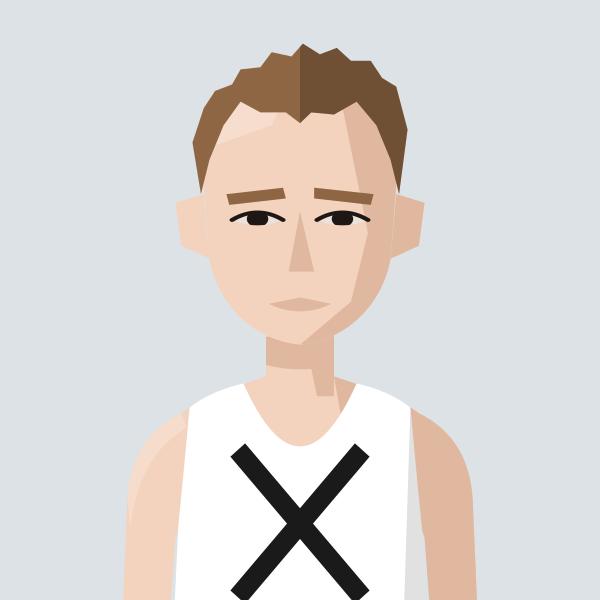
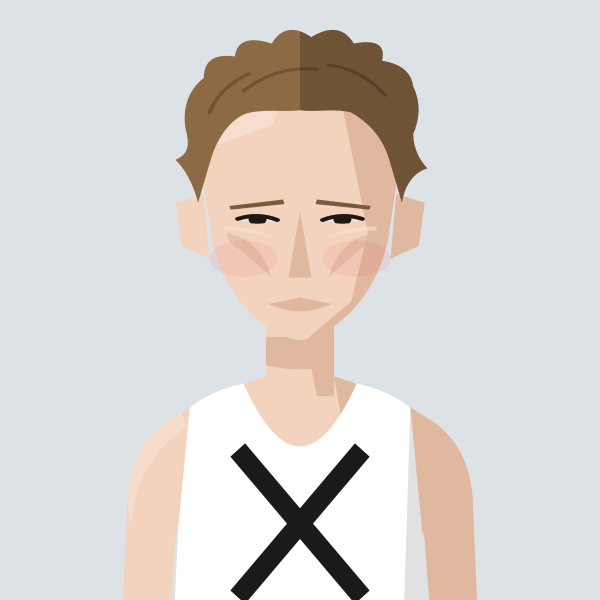
Portrait: Ethan McColgan redrawn (wavy volume, small deep-set eyes, cheekbones, long nose)
Claude-Session: https://claude.ai/code/session_01MgmDWhFqnSSnP4iBLKXUZC

diff --git a/files/index.html b/files/index.html
@@ -787,7 +787,7 @@ const portraitFile=(name,club)=>{const k=normalizeNameForCompare(name||'').repla
 const portraitClubOf=(name,clubs)=>{for(const c of clubs||[]){if(c&&portraitFile(name,c))return c;}return null;}; /* first of these clubs we have a portrait for */
 // Athlete header figure: superstar portrait if we have one, else a grey runner in the club vest, else the plain vest icon
 // Changes whenever any portrait changes (set by tools/build_og.py), so browsers fetch fresh images instead of old cached ones
-const PORTRAIT_V='8cf6c837';const PORTRAIT_WOMEN='abbey-brooke,abbie-bulbulian,adele-prince,aimee-hargreaves,aisling-ahern,alex-brown,alex-gandee,alex-marginean,alex-miller,alexa-parker,alexandra-barbour,alice-braham,alice-bridger-morales,alice-crane,alice-martin,alice-reed,alice-smith,alison-purnell,alison-thomson,amelia-pettitt,amy-clements,andrea-barber,anika-schwarze-chintapatla,anna-garnier,anna-garnier-hw,anna-sharp,annabel-hobday,annabelle-hadlow,anne-hegvold,annmarie-seymour,ava-mcandie,becky-briggs,bethan-goddard,bethanie-murray,bethany-brown,betsy-griffiths,billie-mcclosky,camilla-barden,caoimhe-nic-fhogartaigh,carolyne-baxter,catherine-bryson,catherine-eastham,catherine-kandie,cathy-ansell,charlotte-griffiths,chloe-beckett,chloe-tighe,chrissie-wellington,claire-grima,clara-pettit,clare-elms,clare-pauzers,dillan-quinn,dorchie-cockerell,eilidh-hide,elinor-skinner,eliza-grant,elizabeth-apsley,elizabeth-stavreski,ella-fennelly,ella-king-powrie,ella-may-hards,ella-newton,ellen-weir,ellie-brown,ellie-freeden,eloise-bull,emilie-arnoux,emily-barrett,emily-bradley,emily-lowery,emily-robbins,emma-gordon,emma-howsham,emma-lord,emma-rowland,estle-viljoen,evie-warren,felicity-cole,felicity-harrison,felicity-hayward,fi-maddocks,fiona-de-mauny,florence-wiggins,gabby-collison,gabriel-reynolds,gemma-newport,genevieve-blanch,georgia-curry,georgie-bruinvels,georgie-fenn,georgie-furze,georgie-grgec,gina-galbraith,grace-leyland,grace-richardson,hannah-edwards,hannah-english,heather-statham,heather-statham-cc,helena-corbin,helena-keenan,holly-nixon,holly-pan,imogen-mackie,imogen-wolsey,iona-cousland,isabel-bradley,isabel-brinsden,isabelle-pickett,isobel-hodder,jennifer-nandi,jennifer-smith,jess-reed,jess-saunders,jess-winfield,jessica-davies,jessica-lowe,jodie-favell,josephine-rhodes,julia-bleasdale,julia-wedmore,juliet-hodder,jurgita-levertaviciute,justine-lynch,karen-fenner,karen-xiang,karina-box,kate-axford,kate-williams,kathy-sharpe,katie-ellen-french,katie-good,katie-snowden,katy-hedgethorne,kitty-shepherd-cross,kristina-popadich,lara-bromilow,lara-mangan,laura-goodson,laura-miles,lauren-major,lea-adamson,lily-newton,lisa-bailey,lisa-thomas,lisa-thomas-hw,lizzie-goldie-scot,louise-cooper,lucy-jones,lucy-macalister,lucy-peters,lydia-blackmore,lydia-gallyer-barnett,maddie-mastrolonardo,maddy-whitman,maeve-kenny,margaret-coogan,martina-conner,mary-james,mary-setyabule,matilde-lomba,megan-gildea,mel-wilkins,mhairi-hall,mimi-corden-lloyd,molly-oconnor,molly-smith,monika-gajek,naomi-lenane,natalie-beadle,natalie-seymour,natasha-lodge,niamh-thompson,nicky-hayes,nicola-cartlidge,nicola-douglas,nikki-sturzaker,olivia-papaioannou,olivia-stillman,orna-mcginley,pamela-mchutchon,patricia-walker,patrizia-gnoato,penny-oliver,rachel-brown,rebecca-barrow,rebekah-edgar,ruby-carter,ruby-whyte-wilding,ruby-woolfe,sally-urquhart,sam-whiting,samantha-munday,sarah-astin,sarah-dewhirst,sarah-grover,sarah-hanley,sarah-holt,sarah-murphy,sarah-palmer,sarah-palmer-ran,sarah-riceman,sarah-young,saron-haileselase,serena-carter,sophie-cowper,sophie-harris,sophie-hicks,sophie-tooley,stacey-ward,steph-hewitt,steph-mccall,steph-mccall-cc,steph-mccall-slh,steph-mitchell,suzanne-swaine,suze-spalding,suzie-harvey,suzy-whatmough,teresa-murphy,tilly-heaton,tilly-heaton-bel,tish-jones,vic-cartwright,vicky-clarke,victoria-barthelmess,victoria-buck,vikki-filsell,zoe-doyle,zoe-macdonald,zuzana-nemeckova';const PORTRAIT_MEN='aaron-wilson,abdulla-elsadig,adam-leane,adrian-major,adrien-royer,alan-black,alan-mead,alex-brecker,alex-bruce-littlewood,alex-gutteridge,alex-harris,alex-howard,alex-janiaud,alex-lee,alex-lennon,alex-mills,alex-milne,alex-morales,alex-robinson,alex-yee,alexander-marks,amittai-ben-israel,andrew-cumine,andrew-green,andrew-penney,andrew-perfect,andrew-simms,andrew-warburton,andrius-jaksevicius,andy-coley-maud,andy-coley-maud-cc,andy-fyfe,andy-north,andy-paton,andy-weir,angus-butler,angus-lamb,anisse-ismaili,arlo-ludewick,arne-dumez,arthur-peel,ashley-goncalves,barnaby-day,barry-collins,barry-sawyer,ben-clarke,ben-coughlan,ben-harding,ben-hurley,ben-ireland,ben-millar,ben-paviour,ben-pearce,ben-racle,ben-revill,ben-reynolds,ben-scott,ben-toomer,benedict-whitby,benjamin-hilson,bernie-ford,bill-kerr,bill-weller,bill-weller-wal,bob-harrison,bob-holt,bob-lunnon,bob-rayman,bob-smith,bradley-courtney-pinn,brandon-dewar,brian-gorman,brian-wilder,caleb-hathaway,callum-stewart,cameron-dockerill,cameron-reilly,carl-delaney,charles-herrington,charlie-dabbs,charlie-dickinson,charlie-eastaugh,charlie-manning,charlie-pickett,charlie-rogers,charlie-sandison,charlie-walker,charlie-wyllie,che-compton,chris-busaileh,chris-busaileh-hhh,chris-greenwood,chris-keavey,chris-moss,chris-steer,chris-threadgold,chris-warren,christian-lee,christopher-parker,clive-gilby,clive-shippen,colin-high,colin-pearson,conall-mcnally,conall-whelan,craig-ruddy,dame-dibaba,dan-cliffe,dan-pettitt,daniel-shaw,daniel-wolff,dave-beard,dave-beaver,dave-glassborow,dave-holt,dave-taylor,david-anderson,david-bowers,david-grima,david-north,david-ogden,david-symons,david-walsh,david-williams,deron-fagan,dick-piotrowski,dimos-evangelidis,dominic-kiralyfi,don-anderson,don-faircloth,don-maclean,doug-maughan,duncan-rimmer,dylan-evans,dylan-mitchard,ed-brewer,ed-catmur,ed-gibson,ed-mallett,eddie-herridge,eddie-jodrell,eddie-rolls,edward-chuck,eoin-brady,eoin-molloy,ethan-mccolgan,falilou-kebe,findlay-dyer,finn-johnson,fintan-pearce,frank-tickner,frank-ward,fred-paget,fred-slemeck,freddie-hessian,garret-lee,gary-ribbons,gary-ribbons-ee,gary-staines,gavin-eccles,geoff-biscoe,geoff-jerwood,geoff-north,george-cotton,george-gathercole,george-jackson,george-loxton,george-mallett,george-ogden,gerry-adams,gerry-north,glen-keegan,gordon-pearce,graham-macky,harrison-hayman,harry-guttridge,hector-revill,henry-hart,henry-silverstein,hugo-hewitt,huw-lobb,ian-acreman,ian-crowe-wright,ian-ellwood,ian-harkness,indy-barnes,isaac-lutaya,isaac-parker,jack-brotchie,jack-dickson,jack-dormer,jack-hampshire,jack-harrison,jack-hobden,jack-kavanagh,jack-millar,jack-ramm,jack-woods,jacob-brockmann,jake-simmonds,james-bartram,james-blackwood,james-bowler,james-estall,james-ewing,james-fox,james-hancock,james-harvey,james-hoad,james-kelly,james-mcmullan,james-murray,james-nutt,james-preston,james-roberts,james-stockings,james-ward,james-wootton,jamie-crowe,jamie-parkinson,jared-martin,jean-paul-wright,jeff-cunningham,jeremy-dempsey,jermaine-mays,jerry-watson,jim-allchin,jim-rimmer,joe-english,joe-hartley,john-baker,john-bicourt,john-bromley,john-davies,john-dear,john-foss,john-foxall,john-gilbert,john-gladwin,john-hutchins,john-kendall,john-kimaiyo,john-lee,john-lethbridge,john-mather,john-moore,john-roberts,john-sanderson,john-stow,john-sullivan,john-thresher,jon-hobbs,jon-pepper,jon-pepper-slh,jon-phillips,jon-solly,jonathan-cocker,jonathan-collier,jonathan-cornish,jonathan-ratcliffe,jonathan-tipper,jonathon-blackledge,jonny-neville,jonny-scott,jordan-weaver,josh-mitchell,josh-snow,josh-trigwell,jules-gevers,junior-galley,justin-chaston,justin-reid,kassa-tadesse,keith-newton,kevin-nash,kevin-quinn,kevin-sturman,kieran-barnes,kieran-white,knut-hegvold,knut-hegvold-bel,larry-ryan,lawrence-avery,lee-lintern,lewis-lloyd,liam-burthem,lionel-mann,lloyd-kempson,luke-caldwell,mack-downie,malachi-byansi,marcello-bizio,marcelo-fortes,marco-mazzotta,mark-anderson,mark-miles,mark-sinclair,mark-tennyson,mark-waller,martin-dent,martin-lake,martin-lewington,martin-shore,mathew-speed,matt-chaston,matt-jones,matt-wood,matthew-edgar,matthew-houchell,matthew-thomas,matthew-varley,max-bloor,max-heyden,max-milarvie,max-nicholls,michael-baker,michael-mccarthy,mick-woods,mike-beevor,mike-boyle,mike-cummings,mike-farmery,mike-fuller,mike-hayes,mike-kortenray,mike-nouch,mohammed-ismail,monty-hudson,morgan-roberts,nathan-visick,neil-chisholm,neil-phillips,neil-speaight,neil-wilson,nic-lukies,nick-acfield,nick-altmann,nick-bester,nick-bester-hhh,nick-buckle,nick-bundle,nick-goolab,nick-lightfoot,nick-morris,nick-torry,noah-fernandez,norman-stairs,oli-carrington,oliver-carrington,oliver-fox,oliver-reynolds,oliver-young,ollie-foote,ollie-garrod,olly-buck,owen-hind,paddy-roddy,pancho-panchev,paskar-owor,pat-newell,patrick-mcdougall,paul-calver,paul-cheetham,paul-freary,paul-magner,paul-pollock,paul-sanderson,paul-sanderson-wok,pete-carton,pete-gardner,peter-clarke,peter-giles,peter-giles-thh,peter-lighting,phil-carstairs,phil-sanders,phil-sesemann,phil-swinburn,phil-wicks,phil-woodford-smith,raj-paranandi,ralph-street,ranjit-bhatia,ray-foley,reece-edwards,rhys-boorman,rian-mccawley,richard-ashe,richard-giles,richard-henderson,richard-langley,richard-mcdowell,richard-ollington,richard-partridge,richard-sun,richard-ward,rob-armstrong,rob-kelly,rob-tuer,robert-elphick,robert-laing,robert-norville,robert-peacock,robert-sesemann,robin-boon,robin-hudson,roger-alsop,roger-alsop-bel,ron-clark,ron-linstead,ronan-tanguy,rory-mcmahon,rory-orsborn,ross-braden,ross-christie,rowan-board,rowan-crichton,russell-dessaix-chin,ryan-hickey,ryan-mccallister,sam-bramwell,sam-charlton,sam-gebreselassie,sam-haughian,sam-peters,sam-sommerville,sam-tyas,samuel-dames,samuel-wilcock,sean-cordon,sebastian-anthony,simon-baines,simon-coombes,simon-coppard,simon-holmes,simon-rayner,simon-rayner-hw,simon-wade,simon-wade-hhh,simon-waterhouse,simon-williams,simon-wurr,sonny-nicoll,spencer-barden,stephen-mcleod,stephen-sharp,steve-gardner,steve-jones,steve-smythe,steve-smythe-hhh,stuart-beaney,stuart-major,stuart-major-thh,stuart-mccallum,stuart-paton,terry-booth,thomas-dugre,thomas-gandee,thomas-gardner,thomas-renshaw,tim-alexander,tim-eglen,tim-lawrence,tim-watson,toby-cooke,toby-fletcher,tom-austin,tom-cheetham,tom-conlon,tom-davies,tom-gifford,tom-higgs,tom-jervis,tom-lole,tom-south,tom-thornley,tommy-taylor,tony-binda,tony-fairclough,tony-harran,trevor-hart,valdis-pauzers,valentin-rigori,vic-maughan,wayne-oxborough,will-cockerell,will-lewis,will-marshall,will-scott,will-stockley,william-gardner,yacin-yusuf,zach-nolan';
+const PORTRAIT_V='f6927289';const PORTRAIT_WOMEN='abbey-brooke,abbie-bulbulian,adele-prince,aimee-hargreaves,aisling-ahern,alex-brown,alex-gandee,alex-marginean,alex-miller,alexa-parker,alexandra-barbour,alice-braham,alice-bridger-morales,alice-crane,alice-martin,alice-reed,alice-smith,alison-purnell,alison-thomson,amelia-pettitt,amy-clements,andrea-barber,anika-schwarze-chintapatla,anna-garnier,anna-garnier-hw,anna-sharp,annabel-hobday,annabelle-hadlow,anne-hegvold,annmarie-seymour,ava-mcandie,becky-briggs,bethan-goddard,bethanie-murray,bethany-brown,betsy-griffiths,billie-mcclosky,camilla-barden,caoimhe-nic-fhogartaigh,carolyne-baxter,catherine-bryson,catherine-eastham,catherine-kandie,cathy-ansell,charlotte-griffiths,chloe-beckett,chloe-tighe,chrissie-wellington,claire-grima,clara-pettit,clare-elms,clare-pauzers,dillan-quinn,dorchie-cockerell,eilidh-hide,elinor-skinner,eliza-grant,elizabeth-apsley,elizabeth-stavreski,ella-fennelly,ella-king-powrie,ella-may-hards,ella-newton,ellen-weir,ellie-brown,ellie-freeden,eloise-bull,emilie-arnoux,emily-barrett,emily-bradley,emily-lowery,emily-robbins,emma-gordon,emma-howsham,emma-lord,emma-rowland,estle-viljoen,evie-warren,felicity-cole,felicity-harrison,felicity-hayward,fi-maddocks,fiona-de-mauny,florence-wiggins,gabby-collison,gabriel-reynolds,gemma-newport,genevieve-blanch,georgia-curry,georgie-bruinvels,georgie-fenn,georgie-furze,georgie-grgec,gina-galbraith,grace-leyland,grace-richardson,hannah-edwards,hannah-english,heather-statham,heather-statham-cc,helena-corbin,helena-keenan,holly-nixon,holly-pan,imogen-mackie,imogen-wolsey,iona-cousland,isabel-bradley,isabel-brinsden,isabelle-pickett,isobel-hodder,jennifer-nandi,jennifer-smith,jess-reed,jess-saunders,jess-winfield,jessica-davies,jessica-lowe,jodie-favell,josephine-rhodes,julia-bleasdale,julia-wedmore,juliet-hodder,jurgita-levertaviciute,justine-lynch,karen-fenner,karen-xiang,karina-box,kate-axford,kate-williams,kathy-sharpe,katie-ellen-french,katie-good,katie-snowden,katy-hedgethorne,kitty-shepherd-cross,kristina-popadich,lara-bromilow,lara-mangan,laura-goodson,laura-miles,lauren-major,lea-adamson,lily-newton,lisa-bailey,lisa-thomas,lisa-thomas-hw,lizzie-goldie-scot,louise-cooper,lucy-jones,lucy-macalister,lucy-peters,lydia-blackmore,lydia-gallyer-barnett,maddie-mastrolonardo,maddy-whitman,maeve-kenny,margaret-coogan,martina-conner,mary-james,mary-setyabule,matilde-lomba,megan-gildea,mel-wilkins,mhairi-hall,mimi-corden-lloyd,molly-oconnor,molly-smith,monika-gajek,naomi-lenane,natalie-beadle,natalie-seymour,natasha-lodge,niamh-thompson,nicky-hayes,nicola-cartlidge,nicola-douglas,nikki-sturzaker,olivia-papaioannou,olivia-stillman,orna-mcginley,pamela-mchutchon,patricia-walker,patrizia-gnoato,penny-oliver,rachel-brown,rebecca-barrow,rebekah-edgar,ruby-carter,ruby-whyte-wilding,ruby-woolfe,sally-urquhart,sam-whiting,samantha-munday,sarah-astin,sarah-dewhirst,sarah-grover,sarah-hanley,sarah-holt,sarah-murphy,sarah-palmer,sarah-palmer-ran,sarah-riceman,sarah-young,saron-haileselase,serena-carter,sophie-cowper,sophie-harris,sophie-hicks,sophie-tooley,stacey-ward,steph-hewitt,steph-mccall,steph-mccall-cc,steph-mccall-slh,steph-mitchell,suzanne-swaine,suze-spalding,suzie-harvey,suzy-whatmough,teresa-murphy,tilly-heaton,tilly-heaton-bel,tish-jones,vic-cartwright,vicky-clarke,victoria-barthelmess,victoria-buck,vikki-filsell,zoe-doyle,zoe-macdonald,zuzana-nemeckova';const PORTRAIT_MEN='aaron-wilson,abdulla-elsadig,adam-leane,adrian-major,adrien-royer,alan-black,alan-mead,alex-brecker,alex-bruce-littlewood,alex-gutteridge,alex-harris,alex-howard,alex-janiaud,alex-lee,alex-lennon,alex-mills,alex-milne,alex-morales,alex-robinson,alex-yee,alexander-marks,amittai-ben-israel,andrew-cumine,andrew-green,andrew-penney,andrew-perfect,andrew-simms,andrew-warburton,andrius-jaksevicius,andy-coley-maud,andy-coley-maud-cc,andy-fyfe,andy-north,andy-paton,andy-weir,angus-butler,angus-lamb,anisse-ismaili,arlo-ludewick,arne-dumez,arthur-peel,ashley-goncalves,barnaby-day,barry-collins,barry-sawyer,ben-clarke,ben-coughlan,ben-harding,ben-hurley,ben-ireland,ben-millar,ben-paviour,ben-pearce,ben-racle,ben-revill,ben-reynolds,ben-scott,ben-toomer,benedict-whitby,benjamin-hilson,bernie-ford,bill-kerr,bill-weller,bill-weller-wal,bob-harrison,bob-holt,bob-lunnon,bob-rayman,bob-smith,bradley-courtney-pinn,brandon-dewar,brian-gorman,brian-wilder,caleb-hathaway,callum-stewart,cameron-dockerill,cameron-reilly,carl-delaney,charles-herrington,charlie-dabbs,charlie-dickinson,charlie-eastaugh,charlie-manning,charlie-pickett,charlie-rogers,charlie-sandison,charlie-walker,charlie-wyllie,che-compton,chris-busaileh,chris-busaileh-hhh,chris-greenwood,chris-keavey,chris-moss,chris-steer,chris-threadgold,chris-warren,christian-lee,christopher-parker,clive-gilby,clive-shippen,colin-high,colin-pearson,conall-mcnally,conall-whelan,craig-ruddy,dame-dibaba,dan-cliffe,dan-pettitt,daniel-shaw,daniel-wolff,dave-beard,dave-beaver,dave-glassborow,dave-holt,dave-taylor,david-anderson,david-bowers,david-grima,david-north,david-ogden,david-symons,david-walsh,david-williams,deron-fagan,dick-piotrowski,dimos-evangelidis,dominic-kiralyfi,don-anderson,don-faircloth,don-maclean,doug-maughan,duncan-rimmer,dylan-evans,dylan-mitchard,ed-brewer,ed-catmur,ed-gibson,ed-mallett,eddie-herridge,eddie-jodrell,eddie-rolls,edward-chuck,eoin-brady,eoin-molloy,ethan-mccolgan,falilou-kebe,findlay-dyer,finn-johnson,fintan-pearce,frank-tickner,frank-ward,fred-paget,fred-slemeck,freddie-hessian,garret-lee,gary-ribbons,gary-ribbons-ee,gary-staines,gavin-eccles,geoff-biscoe,geoff-jerwood,geoff-north,george-cotton,george-gathercole,george-jackson,george-loxton,george-mallett,george-ogden,gerry-adams,gerry-north,glen-keegan,gordon-pearce,graham-macky,harrison-hayman,harry-guttridge,hector-revill,henry-hart,henry-silverstein,hugo-hewitt,huw-lobb,ian-acreman,ian-crowe-wright,ian-ellwood,ian-harkness,indy-barnes,isaac-lutaya,isaac-parker,jack-brotchie,jack-dickson,jack-dormer,jack-hampshire,jack-harrison,jack-hobden,jack-kavanagh,jack-millar,jack-ramm,jack-woods,jacob-brockmann,jake-simmonds,james-bartram,james-blackwood,james-bowler,james-estall,james-ewing,james-fox,james-hancock,james-harvey,james-hoad,james-kelly,james-mcmullan,james-murray,james-nutt,james-preston,james-roberts,james-stockings,james-ward,james-wootton,jamie-crowe,jamie-parkinson,jared-martin,jean-paul-wright,jeff-cunningham,jeremy-dempsey,jermaine-mays,jerry-watson,jim-allchin,jim-rimmer,joe-english,joe-hartley,john-baker,john-bicourt,john-bromley,john-davies,john-dear,john-foss,john-foxall,john-gilbert,john-gladwin,john-hutchins,john-kendall,john-kimaiyo,john-lee,john-lethbridge,john-mather,john-moore,john-roberts,john-sanderson,john-stow,john-sullivan,john-thresher,jon-hobbs,jon-pepper,jon-pepper-slh,jon-phillips,jon-solly,jonathan-cocker,jonathan-collier,jonathan-cornish,jonathan-ratcliffe,jonathan-tipper,jonathon-blackledge,jonny-neville,jonny-scott,jordan-weaver,josh-mitchell,josh-snow,josh-trigwell,jules-gevers,junior-galley,justin-chaston,justin-reid,kassa-tadesse,keith-newton,kevin-nash,kevin-quinn,kevin-sturman,kieran-barnes,kieran-white,knut-hegvold,knut-hegvold-bel,larry-ryan,lawrence-avery,lee-lintern,lewis-lloyd,liam-burthem,lionel-mann,lloyd-kempson,luke-caldwell,mack-downie,malachi-byansi,marcello-bizio,marcelo-fortes,marco-mazzotta,mark-anderson,mark-miles,mark-sinclair,mark-tennyson,mark-waller,martin-dent,martin-lake,martin-lewington,martin-shore,mathew-speed,matt-chaston,matt-jones,matt-wood,matthew-edgar,matthew-houchell,matthew-thomas,matthew-varley,max-bloor,max-heyden,max-milarvie,max-nicholls,michael-baker,michael-mccarthy,mick-woods,mike-beevor,mike-boyle,mike-cummings,mike-farmery,mike-fuller,mike-hayes,mike-kortenray,mike-nouch,mohammed-ismail,monty-hudson,morgan-roberts,nathan-visick,neil-chisholm,neil-phillips,neil-speaight,neil-wilson,nic-lukies,nick-acfield,nick-altmann,nick-bester,nick-bester-hhh,nick-buckle,nick-bundle,nick-goolab,nick-lightfoot,nick-morris,nick-torry,noah-fernandez,norman-stairs,oli-carrington,oliver-carrington,oliver-fox,oliver-reynolds,oliver-young,ollie-foote,ollie-garrod,olly-buck,owen-hind,paddy-roddy,pancho-panchev,paskar-owor,pat-newell,patrick-mcdougall,paul-calver,paul-cheetham,paul-freary,paul-magner,paul-pollock,paul-sanderson,paul-sanderson-wok,pete-carton,pete-gardner,peter-clarke,peter-giles,peter-giles-thh,peter-lighting,phil-carstairs,phil-sanders,phil-sesemann,phil-swinburn,phil-wicks,phil-woodford-smith,raj-paranandi,ralph-street,ranjit-bhatia,ray-foley,reece-edwards,rhys-boorman,rian-mccawley,richard-ashe,richard-giles,richard-henderson,richard-langley,richard-mcdowell,richard-ollington,richard-partridge,richard-sun,richard-ward,rob-armstrong,rob-kelly,rob-tuer,robert-elphick,robert-laing,robert-norville,robert-peacock,robert-sesemann,robin-boon,robin-hudson,roger-alsop,roger-alsop-bel,ron-clark,ron-linstead,ronan-tanguy,rory-mcmahon,rory-orsborn,ross-braden,ross-christie,rowan-board,rowan-crichton,russell-dessaix-chin,ryan-hickey,ryan-mccallister,sam-bramwell,sam-charlton,sam-gebreselassie,sam-haughian,sam-peters,sam-sommerville,sam-tyas,samuel-dames,samuel-wilcock,sean-cordon,sebastian-anthony,simon-baines,simon-coombes,simon-coppard,simon-holmes,simon-rayner,simon-rayner-hw,simon-wade,simon-wade-hhh,simon-waterhouse,simon-williams,simon-wurr,sonny-nicoll,spencer-barden,stephen-mcleod,stephen-sharp,steve-gardner,steve-jones,steve-smythe,steve-smythe-hhh,stuart-beaney,stuart-major,stuart-major-thh,stuart-mccallum,stuart-paton,terry-booth,thomas-dugre,thomas-gandee,thomas-gardner,thomas-renshaw,tim-alexander,tim-eglen,tim-lawrence,tim-watson,toby-cooke,toby-fletcher,tom-austin,tom-cheetham,tom-conlon,tom-davies,tom-gifford,tom-higgs,tom-jervis,tom-lole,tom-south,tom-thornley,tommy-taylor,tony-binda,tony-fairclough,tony-harran,trevor-hart,valdis-pauzers,valentin-rigori,vic-maughan,wayne-oxborough,will-cockerell,will-lewis,will-marshall,will-scott,will-stockley,william-gardner,yacin-yusuf,zach-nolan';
 // Runners whose dog pops up on their own profile page (a -dog.svg version of their portrait)
 const PROFILE_DOGS=new Set(['john-sanderson','penny-oliver','james-hancock','angus-butler']);
 const AthletePortrait=({name,club,w,fill,onClick,blink})=>{const[failed,setFailed]=useState(false);const file=portraitFile(name,club);const src0=file?`/portraits/athletes/${file}.svg?v=${PORTRAIT_V}`:PORTRAIT_CLUBS.has(club)?`/portraits/clubs/${club.replace(/\//g,'').replace(/&/g,'and')}.svg?v=${PORTRAIT_V}`:null;const blinkSrc=useBlinkSrc(file?(PROFILE_DOGS.has(file)?`/portraits/athletes/${file}-dog.svg?v=${PORTRAIT_V}`:src0):null,!!blink);const src=blinkSrc||src0;if(!src||failed)return<div onClick={onClick} className={onClick?'cursor-pointer':''}><ClubShield club={club} size={w}/></div>;const h=Math.round(w*148/126),ih=Math.round(w*1.4);if(fill)return<div onClick={onClick} className="cursor-pointer" style={{alignSelf:'stretch',minHeight:h,aspectRatio:'126 / 148',flexShrink:0,position:'relative',borderRadius:4,overflow:'hidden'}}><img src={src} alt={file?`Portrait of ${name.replace(/\s*\([^)]*\)$/,'')}`:`Runner in ${CLUBS[club]?.name||club} vest`} style={{position:'absolute',top:0,left:0,display:'block',width:'100%',height:'auto'}} onError={()=>setFailed(true)}/></div>;return<div style={{width:w,height:h,borderRadius:4,overflow:'hidden',flexShrink:0}}><img src={src} alt={file?`Portrait of ${name.replace(/\s*\([^)]*\)$/,'')}`:`Runner in ${CLUBS[club]?.name||club} vest`} width={w} height={ih} style={{display:'block',width:w,height:ih}} onError={()=>setFailed(true)}/></div>;};

diff --git a/tools/gen_portraits.py b/tools/gen_portraits.py
@@ -1801,4 +1801,7 @@ def nose(svg, width=1.0, length=1.0):
 # Paskar Owor (BEL), redrawn Oct 2026: very close crop, almost bald on top, round head, very dark skin, eyes set a little wide under
 # thin rounded brows sitting low, smile lines from nose to mouth, broad nose
 save("owor", nose(roundbrows(brows(eyes(figure("BEL", skin=6, hair="closebald", hair_colour="#1A1412", brow_colour="#0E0B0A", creases=True), None, 1.5), 0, 1.5, 4)), 2.2))
+# Ethan McColgan (THH), redrawn Oct 2026: thick wavy golden-brown hair swept up with volume, long narrow face, small deep-set eyes
+# under thin light-brown brows sitting low, high cheekbones, long narrow nose, flushed
+save("mccolgan", nose(brows(eyes(figure("THH", skin=1, hair="messyvolume", hair_colour="#8E6A44", brow_colour="#7A5A3C", thin_brows=True, jaw="narrow", gaunt=True, rosy=True), "small"), 0, 0, 4).replace('r="3.8"', 'r="3.2"'), 0.9, 1.1))
 export_site()
